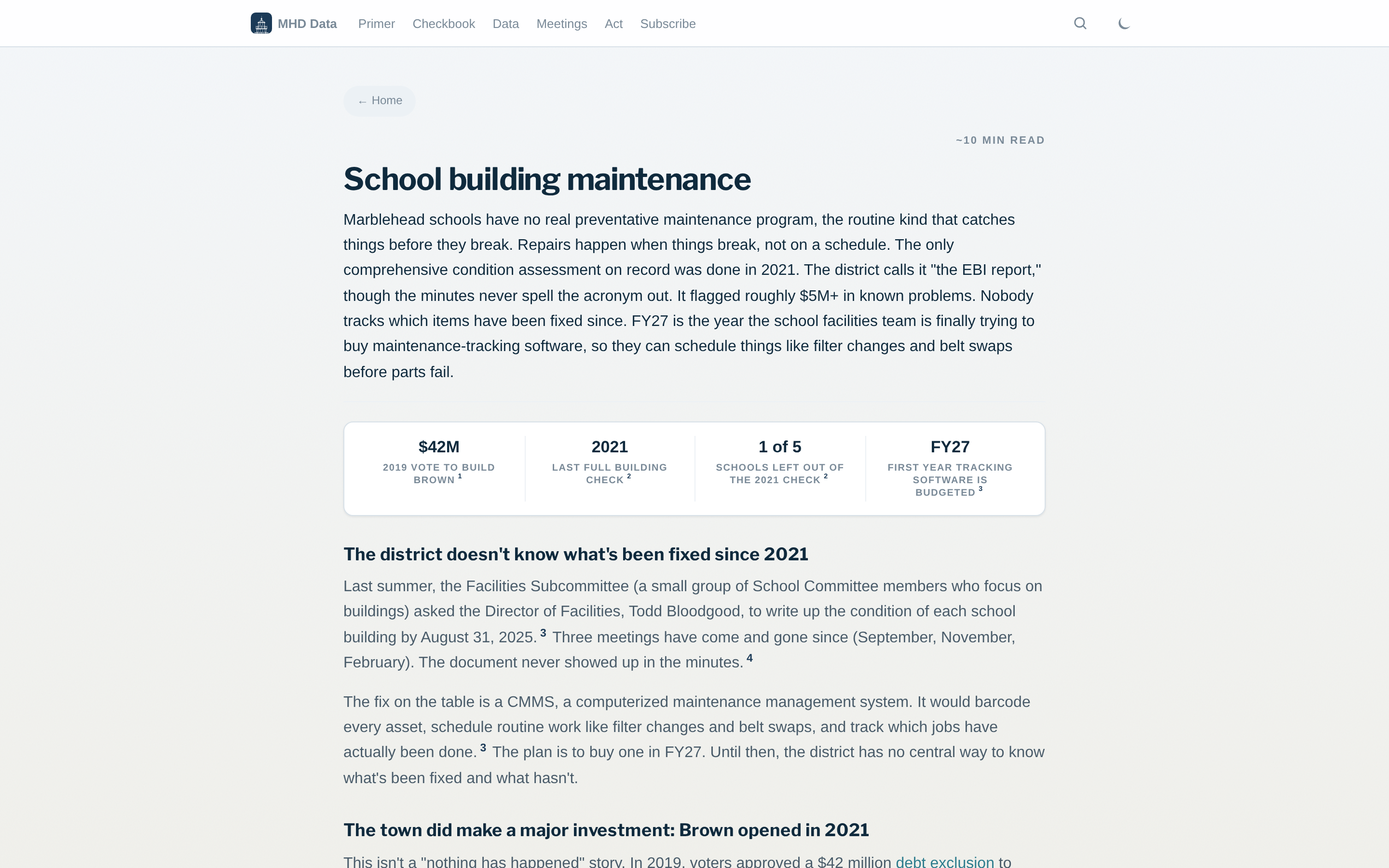
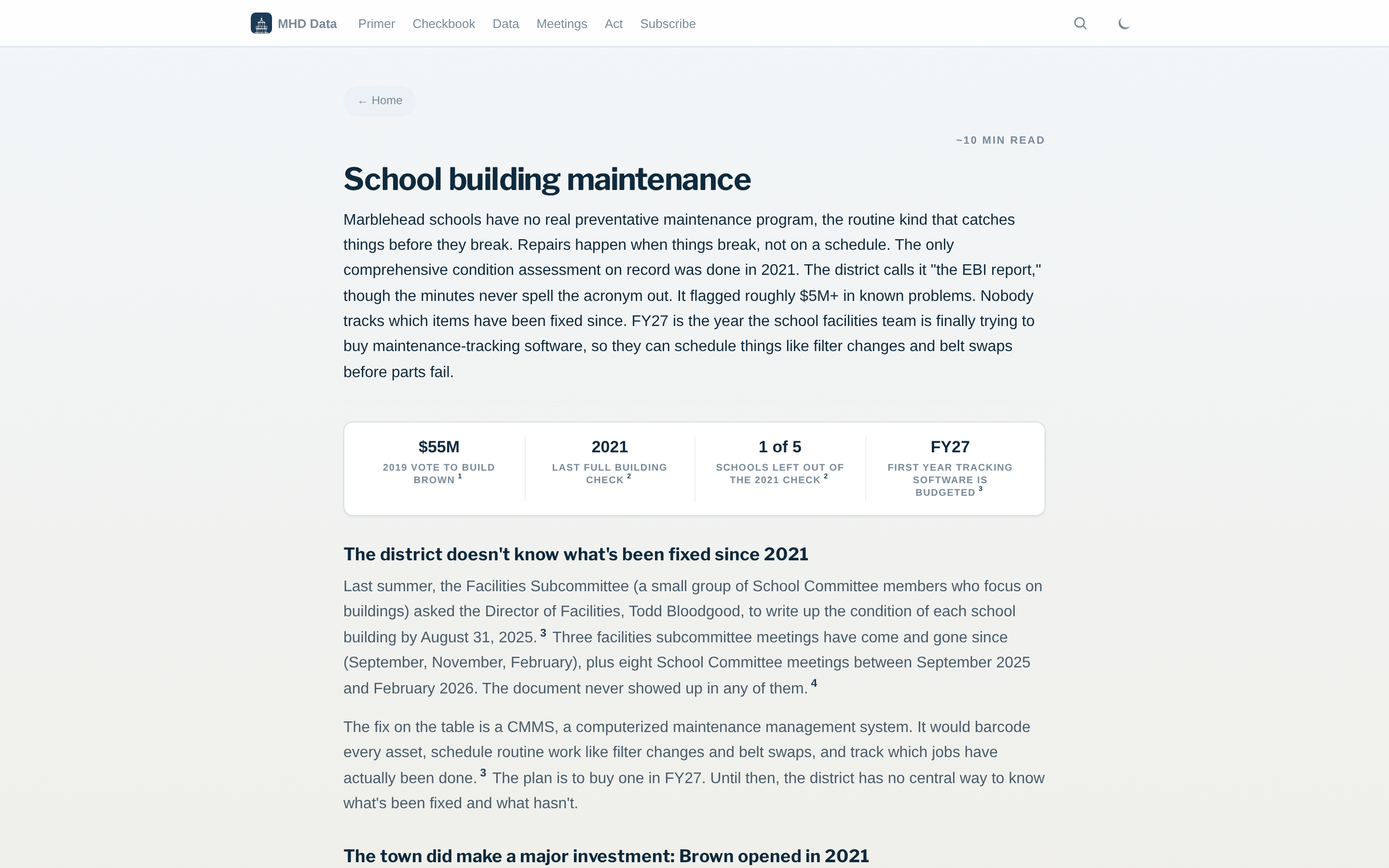
fact(school-buildings): correct $42M → $55M debt exclusion; ballot was 'New Gerry School'
User caught the error. The $42M figure I had been propagating came
from a news article and a web summary; the primary DOR record
(data/marblehead_prop25_votes.csv) shows the actual bond
authorization was $54,844,767. The 6/18/2019 ballot passed 3,440 to
1,976 and was titled 'Bonds For New Gerry School' (named after the
oldest of the three schools being replaced). The building was
renamed Lucretia and Joseph Brown Elementary by the time it opened
in October 2021.

Updated in three places:
- Key stat: '$42M' → '$55M'
- Section 2 first paragraph: '$42 million' → '$54.8 million', added
  the ballot-vs-building-name detail
- Timeline label: '2019 $42M debt exclusion' → '2019 $55M debt
  exclusion'

Citation switched from 2026-override/index.html to the primary
prop25 votes CSV so the source chain points at the DOR record.

Test assertion updated. 31/31 passing.

Generated with [Claude Code](https://claude.ai/code)
via [Happy](https://happy.engineering)

Changed region(s): [[0.25, 0.7156, 0.75, 1.0]]

diff --git a/school-building-maintenance.html b/school-building-maintenance.html
@@ -55,8 +55,8 @@ og_url: https://marbleheaddata.org/school-building-maintenance.html
 
 <div class="key-stats">
   <div class="key-stat">
-    <div class="key-stat-value">$42M</div>
-    <div class="key-stat-label">2019 vote to build Brown<sup class="cite" data-href="2026-override/index.html" data-source="2026-override/index.html (Marblehead 28 of 29 debt exclusion ballots approved since 1982). $42M BCG debt exclusion approved 2019."></sup></div>
+    <div class="key-stat-value">$55M</div>
+    <div class="key-stat-label">2019 vote to build Brown<sup class="cite" data-href="data/marblehead_prop25_votes.csv" data-source="MA DOR Debt Exclusion record. 6/18/2019 ballot: 'Bonds For New Gerry School' passed 3,440 to 1,976. Bond authorization $54,844,767 nominal."></sup></div>
   </div>
   <div class="key-stat">
     <div class="key-stat-value">2021</div>
@@ -80,12 +80,12 @@ og_url: https://marbleheaddata.org/school-building-maintenance.html
 
 <h2 id="bcg-investment">The town did make a major investment: Brown opened in 2021</h2>
 
-<p>This isn't a "nothing has happened" story. In 2019, voters approved a $42 million <a href="prop25-story.html">debt exclusion</a> to build a new elementary school.<sup class="cite" data-href="2026-override/index.html" data-source="Marblehead has approved 28 of 29 debt exclusion ballots since 1982. The BCG project's $42M debt exclusion was approved at the 2019 town election."></sup> Gilbane built the Lucretia and Joseph Brown Elementary School on Baldwin Road and finished 40 days ahead of schedule. Students walked in on October 13, 2021.<sup class="cite" data-href="data/minutes/school_committee/2021-09-23.txt" data-source="Marblehead School Committee minutes, 9/23/2021: 'The Brown School opening - The first day for students will be October 13th with a ribbon cutting On October 17th.'"></sup></p>
+<p>This isn't a "nothing has happened" story. On June 18, 2019, voters approved a $54.8 million <a href="prop25-story.html">debt exclusion</a> to build a new elementary school. The ballot question called it the "New Gerry School," after the oldest of the three schools being replaced.<sup class="cite" data-href="data/marblehead_prop25_votes.csv" data-source="MA DOR Debt Exclusion record. 6/18/2019 ballot: 'Bonds For New Gerry School' passed 3,440 to 1,976. Bond authorization $54,844,767 nominal."></sup> Gilbane built it on Baldwin Road and finished 40 days ahead of schedule. By the time it opened, it had a new name: the Lucretia and Joseph Brown Elementary School. Students walked in on October 13, 2021.<sup class="cite" data-href="data/minutes/school_committee/2021-09-23.txt" data-source="Marblehead School Committee minutes, 9/23/2021: 'The Brown School opening - The first day for students will be October 13th with a ribbon cutting On October 17th.'"></sup></p>
 
 <p>Brown replaced three older schools: Gerry (built 1906), Coffin (1949, with a 1963 annex), and Bell (Upper Bell 1970, Lower Bell 1958). Both Bell buildings were torn down to make room for Brown.<sup class="cite" data-href="data/minutes/school_committee/2020-03-24.txt" data-source="Marblehead School Committee minutes, March 2020: 'demolition of the Upper Bell site' and the Lower Bell foundation removal scheduled for blasting; abatement preceded demolition."></sup> Gerry students had already moved out in 2018 after a steam pipe leak. Coffin went vacant when Brown opened.</p>
 
 <div class="chart-wrapper">
-  <svg class="chart sbm-timeline" viewBox="0 0 820 320" xmlns="http://www.w3.org/2000/svg" role="img" aria-label="Two-track timeline at different scales. Top track (1906 to 2021): school construction dates: Gerry 1906, Coffin 1949, Upper Bell 1970, HS 2002, Glover 2014, Brown 2021. Bottom track (2018 to FY27) at expanded scale: 2018 BCG plan, 2019 $42M debt exclusion approved, 2020 Bell demolition, 2021 EBI assessment, August 2025 written-status target missed, February 2026 Veterans D-wing flood, FY27 CMMS procurement target.">
+  <svg class="chart sbm-timeline" viewBox="0 0 820 320" xmlns="http://www.w3.org/2000/svg" role="img" aria-label="Two-track timeline at different scales. Top track (1906 to 2021): school construction dates: Gerry 1906, Coffin 1949, Upper Bell 1970, HS 2002, Glover 2014, Brown 2021. Bottom track (2018 to FY27) at expanded scale: 2018 BCG plan, 2019 $55M debt exclusion approved, 2020 Bell demolition, 2021 EBI assessment, August 2025 written-status target missed, February 2026 Veterans D-wing flood, FY27 CMMS procurement target.">
     <!-- ============================================================ -->
     <!-- TOP TRACK: construction, scale 1906 → 2021 across x = 60..760 -->
     <!-- 115 years over 700 px = 6.087 px/year                          -->
@@ -137,10 +137,10 @@ og_url: https://marbleheaddata.org/school-building-maintenance.html
       <circle cx="60" cy="188" r="4" fill="currentColor"/>
       <line class="sbm-tl-leader" x1="60" y1="188" x2="60" y2="208"/>
       <text class="tick-label" x="60" y="222" text-anchor="start" font-size="11">2018 BCG plan</text>
-      <!-- 2019 $42M debt exclusion approved (x = 138) — label above -->
+      <!-- 2019 $55M debt exclusion approved (x = 138) — label above -->
       <circle cx="138" cy="188" r="4" fill="currentColor"/>
       <line class="sbm-tl-leader" x1="138" y1="188" x2="138" y2="168"/>
-      <text class="tick-label" x="138" y="160" text-anchor="middle" font-size="11">2019 $42M debt exclusion</text>
+      <text class="tick-label" x="138" y="160" text-anchor="middle" font-size="11">2019 $55M debt exclusion</text>
       <!-- 2020 Bell demolition (x = 215) — label below, deeper offset -->
       <circle cx="215" cy="188" r="4" fill="currentColor"/>
       <line class="sbm-tl-leader" x1="215" y1="188" x2="215" y2="244"/>
